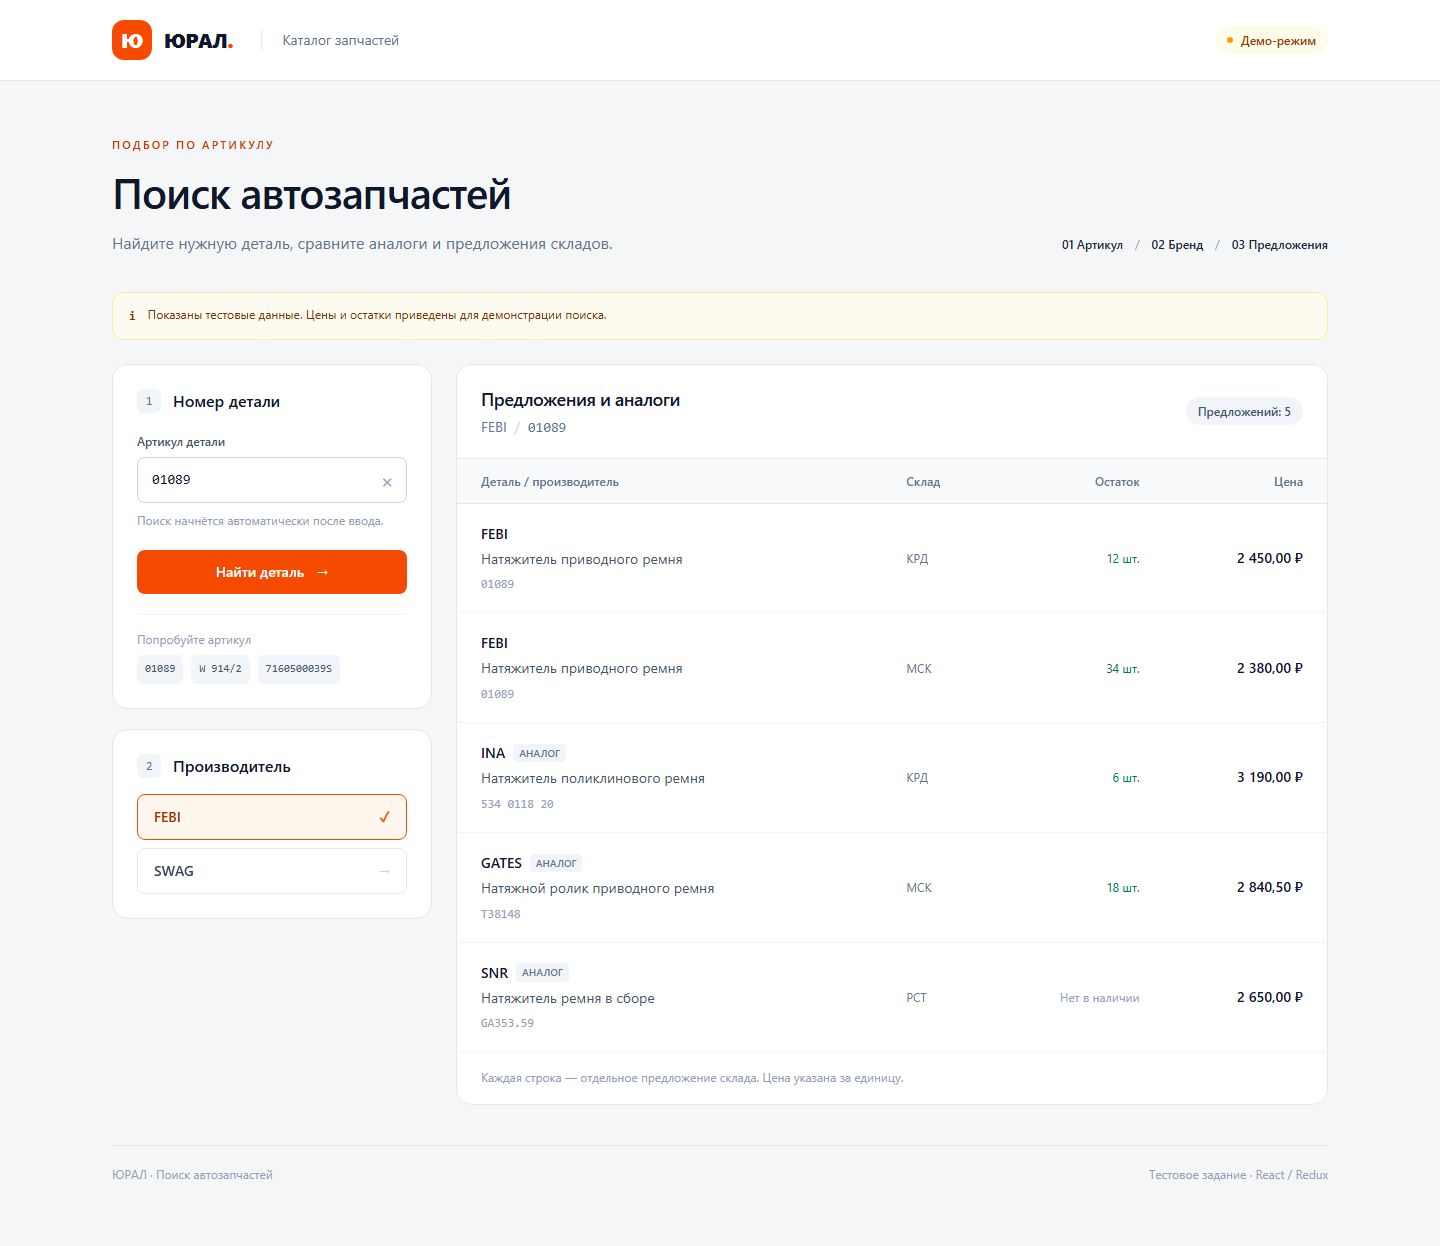
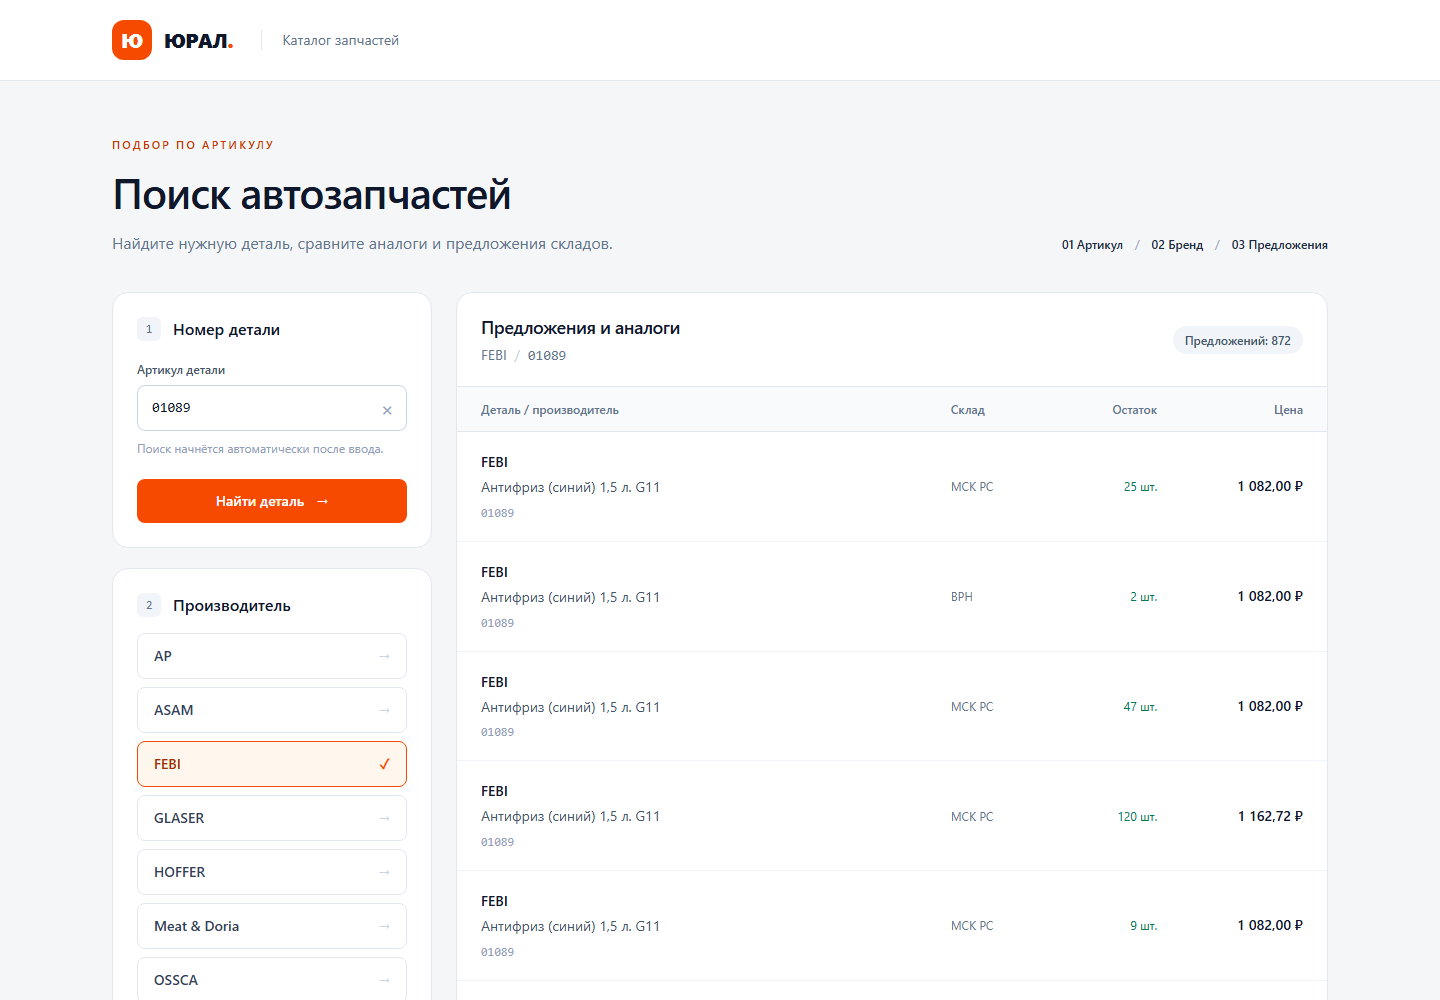
Use public Favorit API key by default

diff --git a/server/api.js b/server/api.js
@@ -2,7 +2,7 @@ import { Router } from 'express'
 import { searchParts } from './favorit.js'
 import { searchDemo } from './demo.js'
 
-export function createApiRouter(key = '') {
+export function createApiRouter(key = '00000000-0000-0000-0000-000000000001') {
   const router = Router()
 
   router.use((request, response, next) => {

diff --git a/README.md b/README.md
@@ -15,21 +15,17 @@ npm i
 npm run start
 ```
 
-Откройте http://localhost:5173. Отдельная сборка и файл `.env` для демо не нужны.
+Откройте http://localhost:5173. Поиск сразу обращается к настоящему API Favorit Parts с публичным тестовым ключом. Отдельная сборка и файл `.env` не нужны.
 
-Без ключа работает демо-режим. В интерфейсе есть отметка о тестовых данных и три примера: `01089`, `W 914/2`, `7160500039S`. Для неизвестного артикула возвращается пустой результат. Демо-цены, остатки и соответствия аналогов не подходят для реального подбора деталей.
+Артикулы для проверки: `01089` → `FEBI`, `7160500039S` → `MEYLE`.
 
 ## Подключение Favorit Parts
 
-Создайте `.env` по образцу `.env.example` и заполните `FAVORIT_API_KEY` своим ключом покупателя. Затем перезапустите сервер. Ключ не отправляется в браузер, не включается в сборку и исключён из Git.
+На сервере по умолчанию задан публичный ключ `00000000-0000-0000-0000-000000000001` из примеров документации. Работа ключа проверена 4 ноября 2026 года.
 
-Для проверки можно использовать публичный ключ из примеров в документации:
+Если нужен свой ключ покупателя, создайте `.env` по образцу `.env.example`, замените `FAVORIT_API_KEY` и перезапустите сервер. Ключ остаётся на сервере; `.env` исключён из Git.
 
-```env
-FAVORIT_API_KEY=00000000-0000-0000-0000-000000000001
-```
-
-На 4 ноября 2026 года этот ключ работает с API «Проценка». Артикулы для проверки: `01089` → `FEBI`, `7160500039S` → `MEYLE`.
+Для демонстрации без внешнего API можно явно задать пустое значение `FAVORIT_API_KEY=` в `.env`. Тогда включится демо-режим с пометкой в интерфейсе и примерами артикулов. Демо-цены, остатки и соответствия аналогов вымышлены.
 
 Клиент написан по [документации API](https://lk.favorit-parts.ru/static/wsprice.pdf). Сервер обращается к `https://api.favorit-parts.ru/hs/hsprice/`:
 
